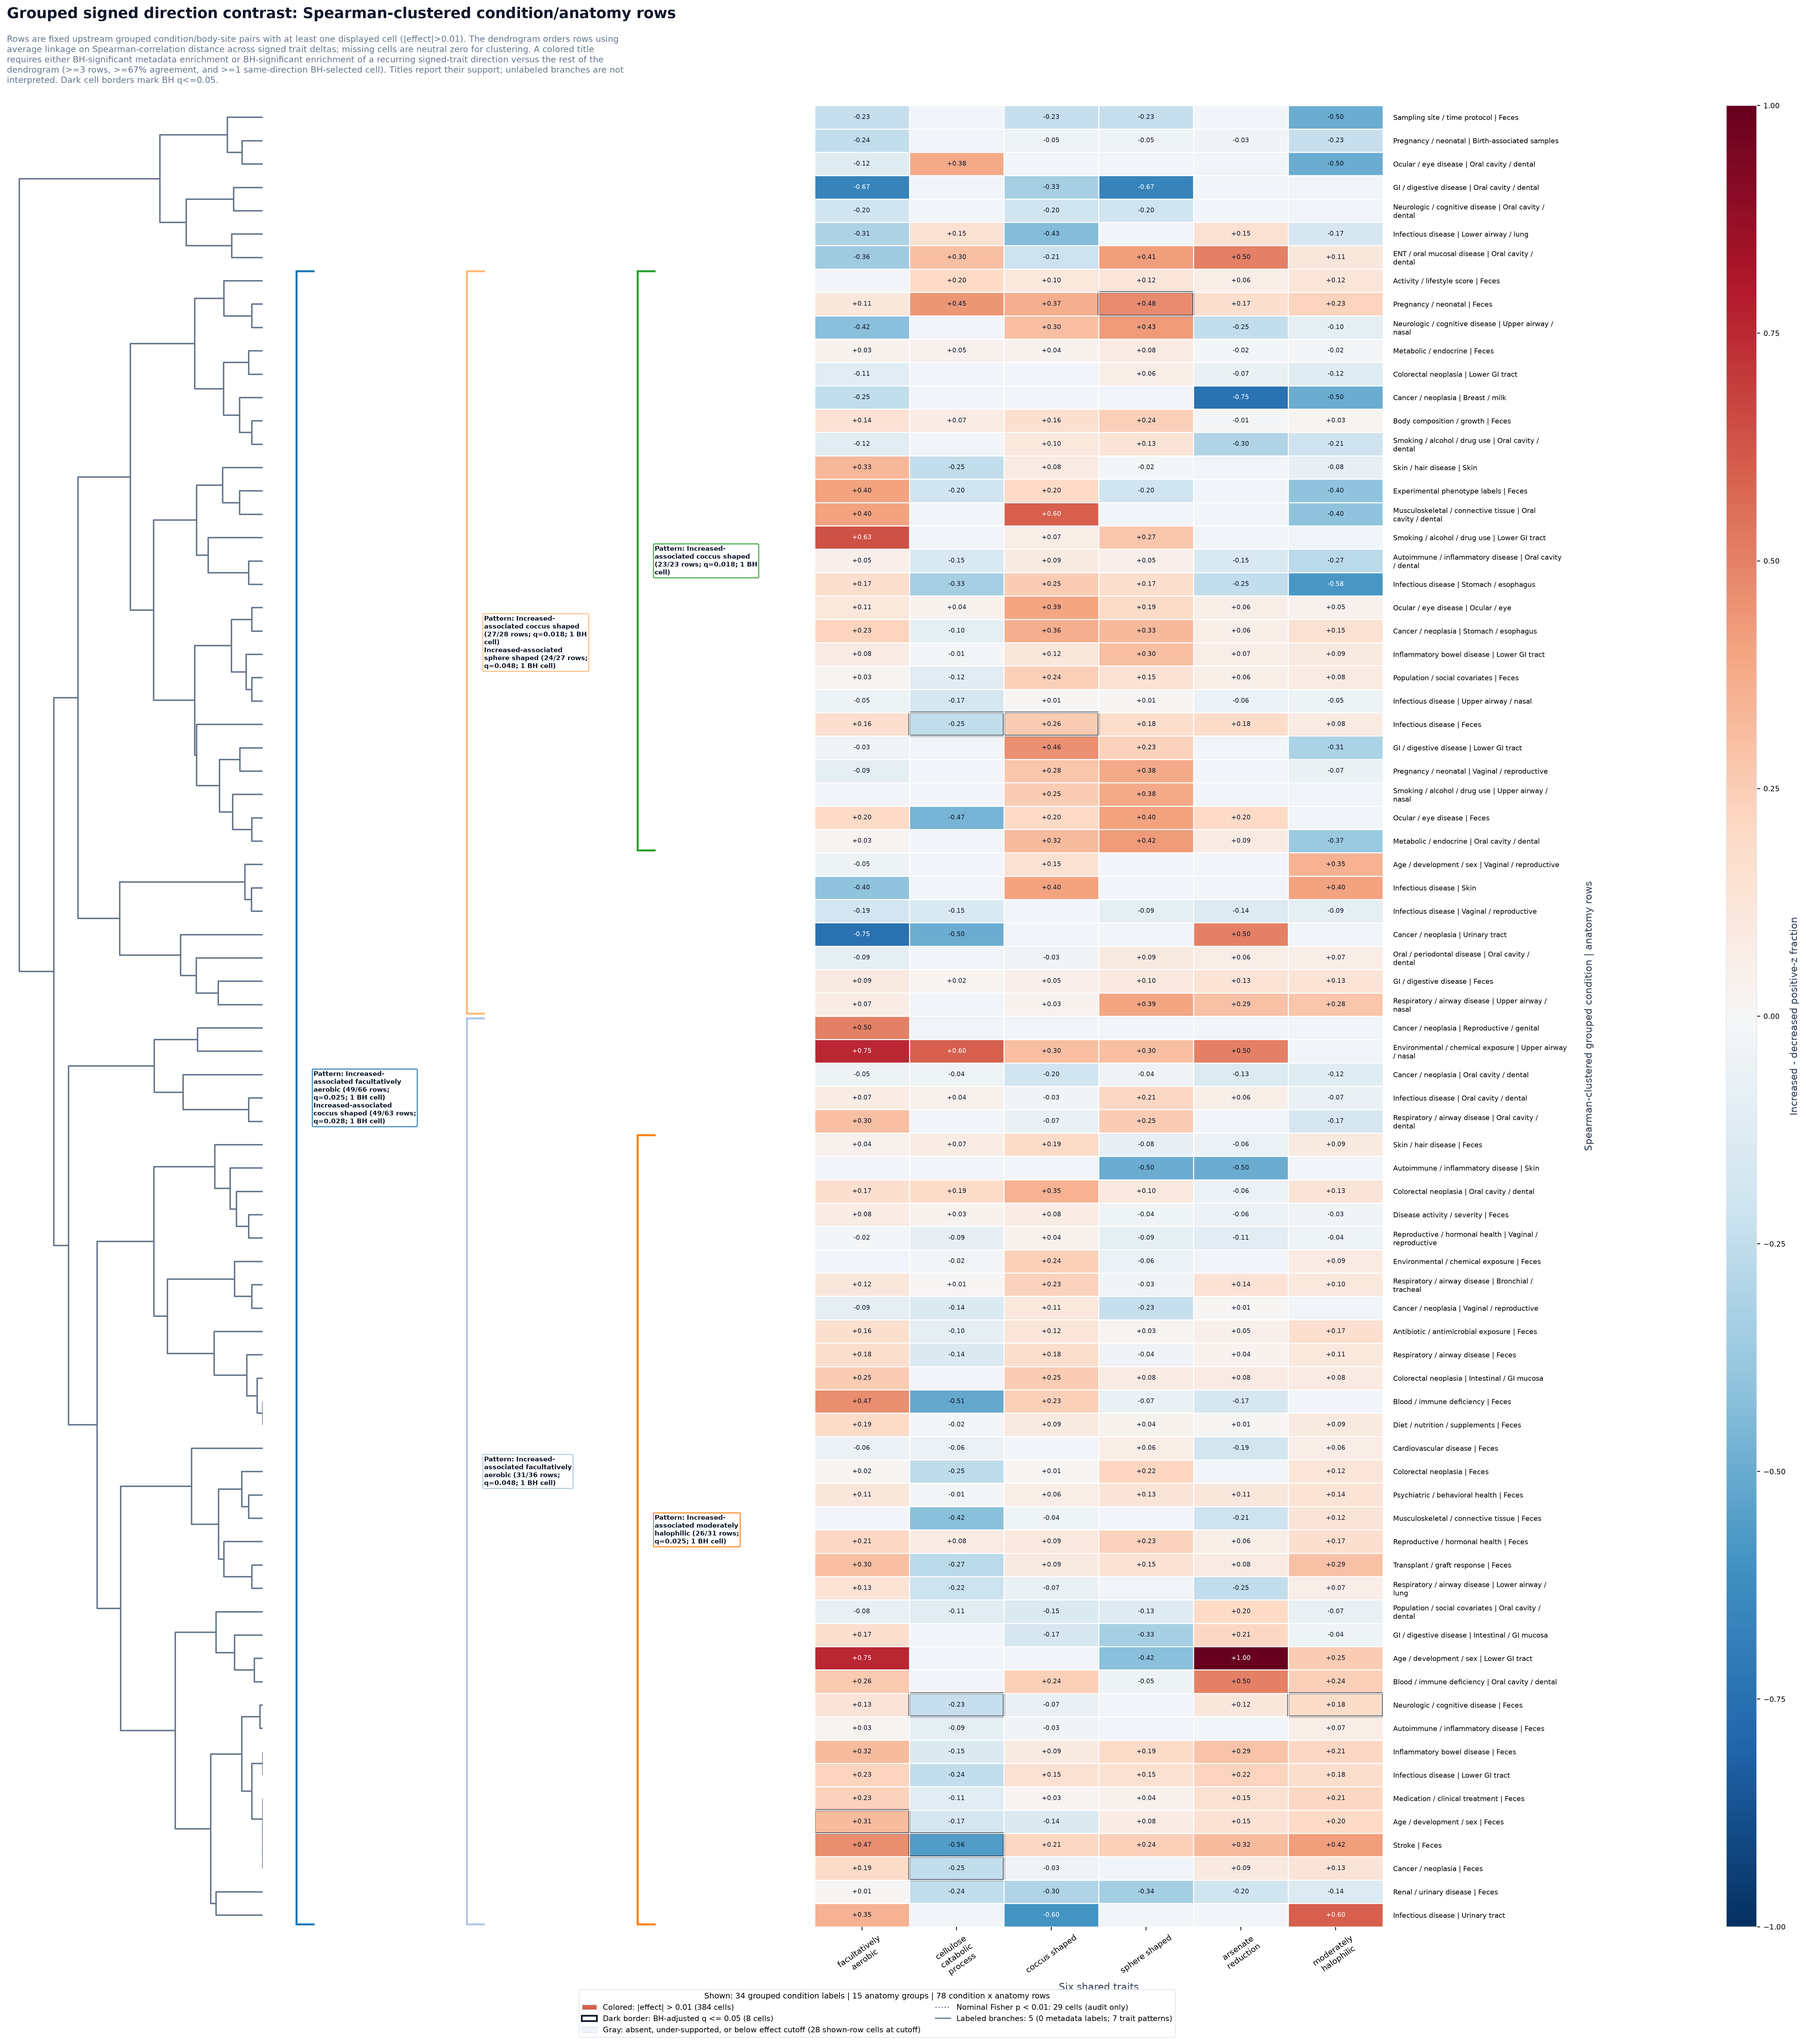
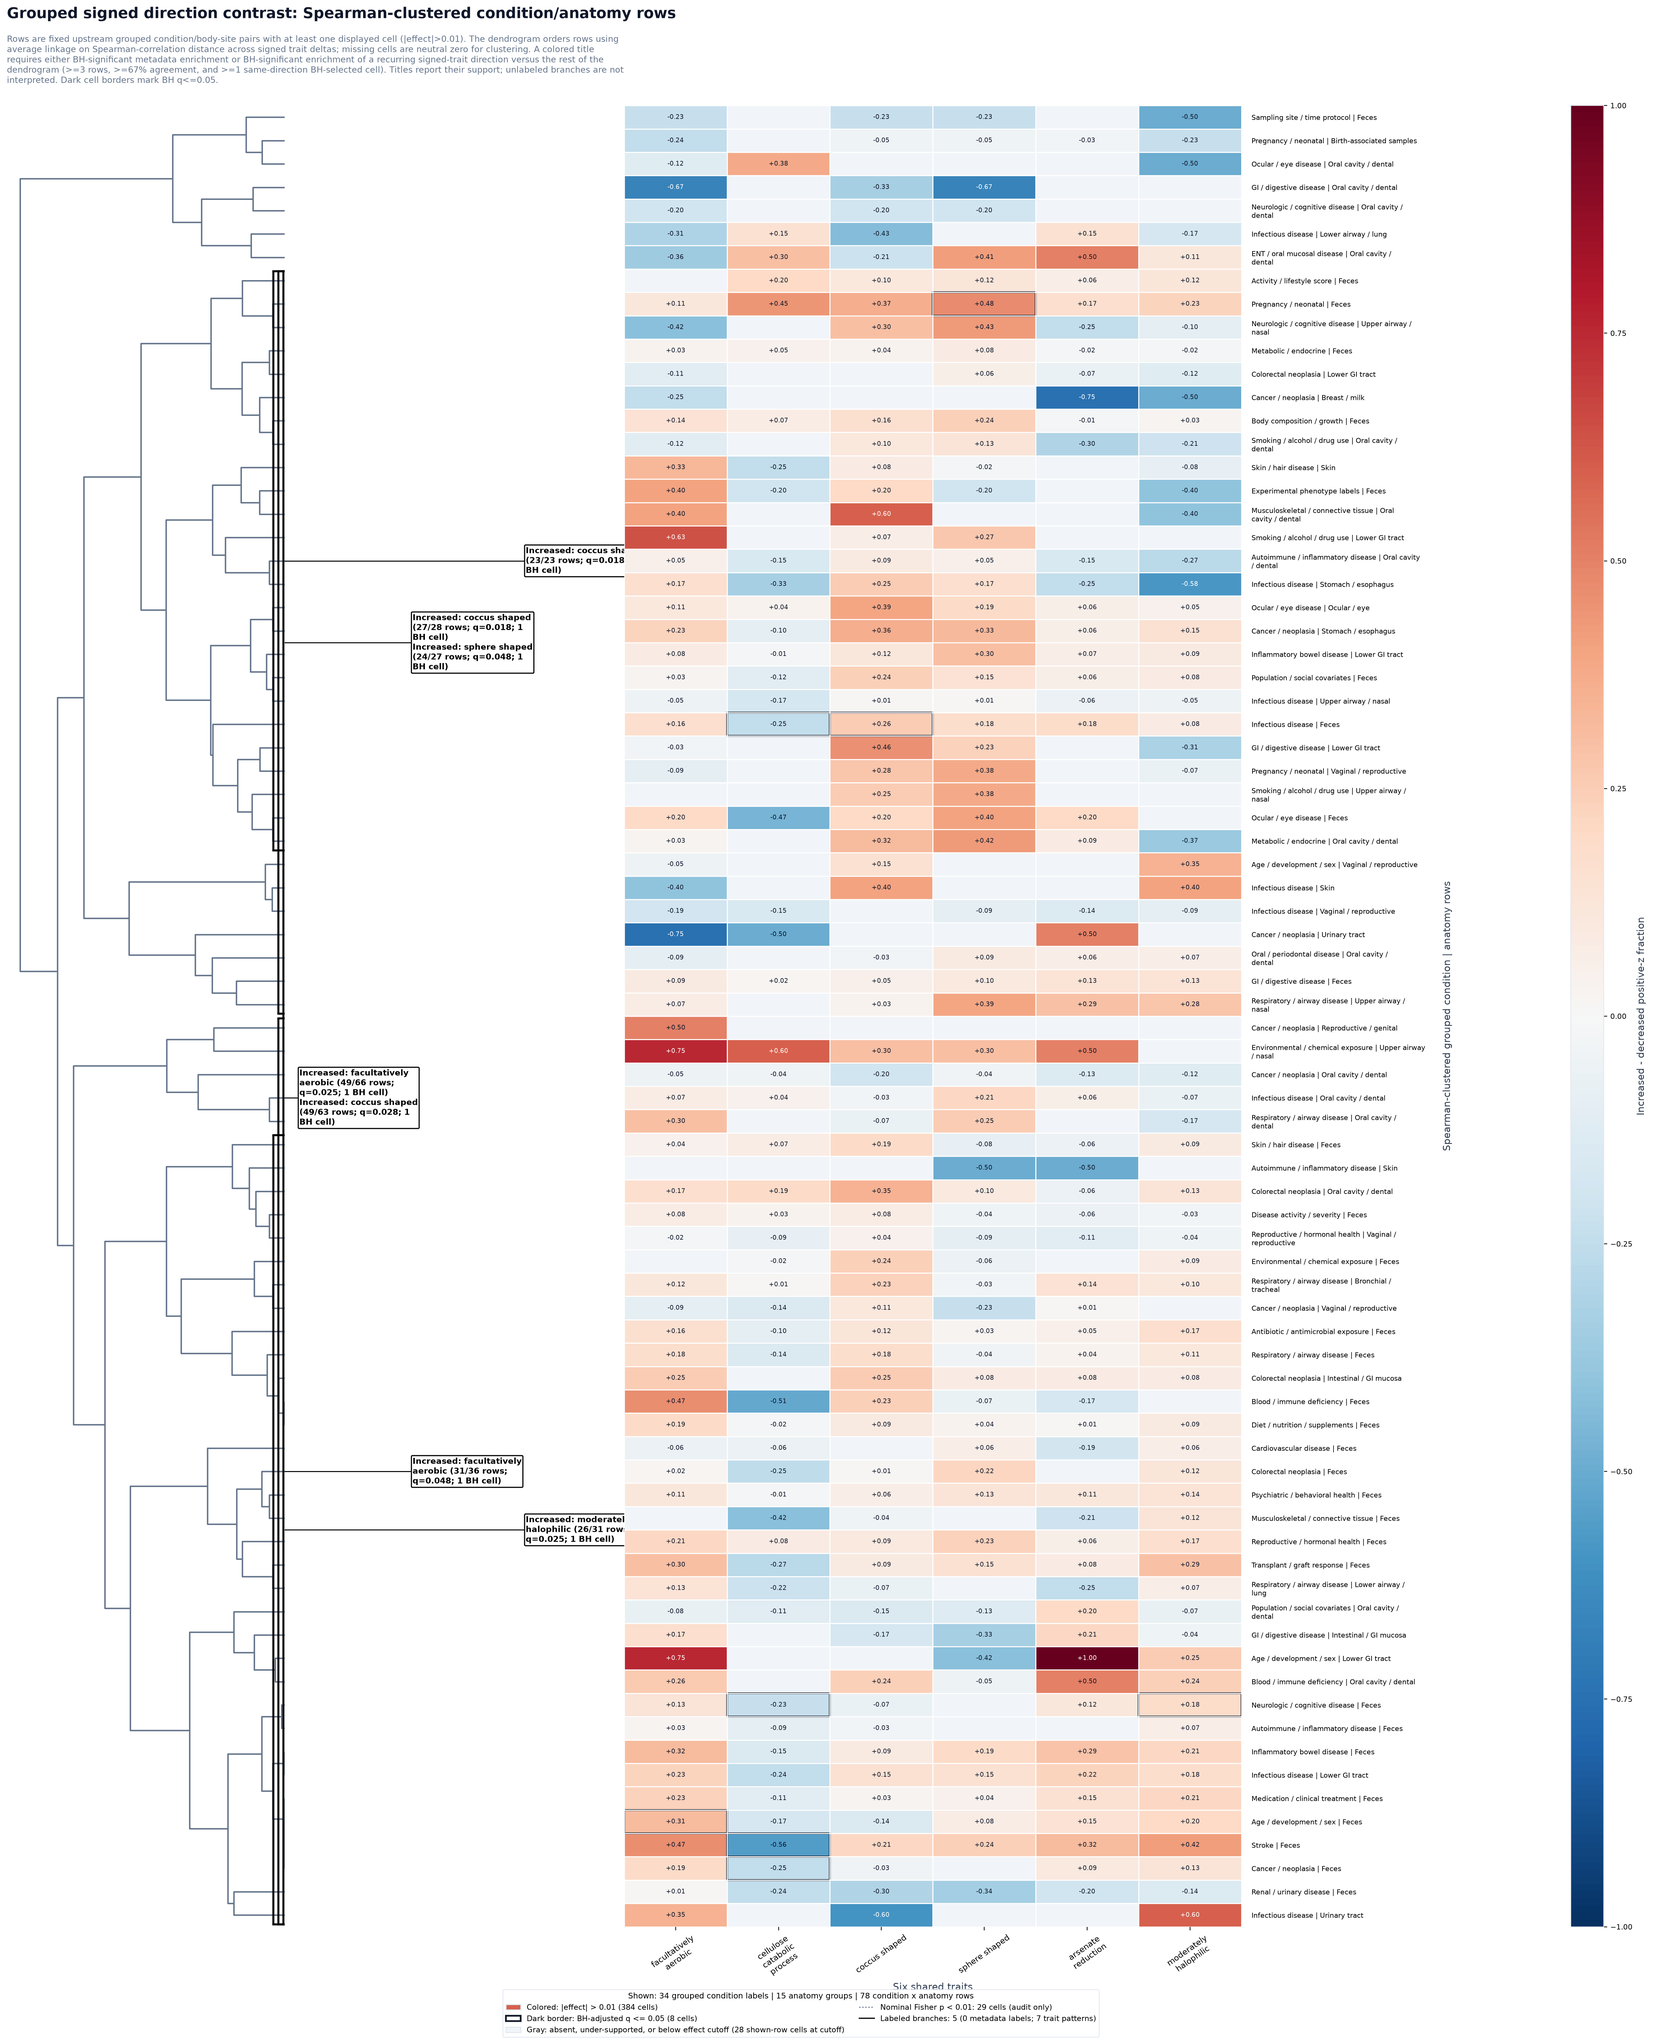
Refine dendrogram label layout

diff --git a/scripts/create_six_shared_trait_cytoscape_heatmaps.py b/scripts/create_six_shared_trait_cytoscape_heatmaps.py
@@ -427,7 +427,7 @@ def add_contrast_legend(
             Line2D(
                 [0],
                 [0],
-                color=SLATE_500,
+                color="black",
                 linewidth=1.2,
                 label=(
                     f"Labeled branches: {significant_branch_count} "
@@ -1448,12 +1448,6 @@ def plot_matrix_heatmap(
     plt.close(fig)
 
 
-def cluster_color(cluster_id: int) -> tuple[float, float, float, float]:
-    """Return a stable color for a row cluster."""
-    palette = plt.get_cmap("tab20")
-    return palette((cluster_id - 1) % 20)
-
-
 def plot_grouped_clustered_contrast_heatmap(
     matrix: pd.DataFrame,
     annotations: pd.DataFrame,
@@ -1480,24 +1474,24 @@ def plot_grouped_clustered_contrast_heatmap(
     )
     if preview:
         fig_height = 8.5
-        fig_width = 14.0 + 1.6 * label_track_count
+        fig_width = 14.0 + 0.9 * label_track_count
         left = 0.08
         right = 0.92
         top = 0.86
         bottom = 0.23
         label_width = 0.01
-        branch_label_width = 1.6 * label_track_count
+        branch_label_width = 1.05 * label_track_count
         show_row_labels = False
         show_cell_text = False
     else:
         fig_height = max(9.5, 3.2 + 0.34 * row_count)
-        fig_width = 22.0 + 1.8 * label_track_count
+        fig_width = 22.0 + 1.0 * label_track_count
         left = 0.04
         right = 0.965
         top = 1 - 1.55 / fig_height
         bottom = 1.8 / fig_height
         label_width = 3.2
-        branch_label_width = 1.8 * label_track_count
+        branch_label_width = 1.1 * label_track_count
         show_row_labels = True
         show_cell_text = True
 
@@ -1510,7 +1504,7 @@ def plot_grouped_clustered_contrast_heatmap(
         right=right,
         top=top,
         bottom=bottom,
-        wspace=0.06,
+        wspace=0.0,
     )
     dendro_ax = fig.add_subplot(grid[0, 0])
     branch_label_ax = fig.add_subplot(grid[0, 1])
@@ -1541,58 +1535,73 @@ def plot_grouped_clustered_contrast_heatmap(
         end = (int(branch.leaf_end) + 1) * 10
         midpoint = (start + end) / 2
         track = int(branch.nesting_depth)
-        color = cluster_color(int(branch.spearman_cluster))
-        bracket_x = track + 0.08
-        branch_label_ax.plot(
+        bracket_x = 0.995 - 0.018 * track
+        dendro_ax.plot(
             [bracket_x, bracket_x],
             [start + 1, end - 1],
-            color=color,
+            color="black",
             linewidth=2.1 if not preview else 1.6,
             solid_capstyle="round",
+            transform=dendro_ax.get_yaxis_transform(),
+            clip_on=False,
             zorder=2,
         )
-        branch_label_ax.plot(
-            [bracket_x, bracket_x + 0.1],
+        dendro_ax.plot(
+            [bracket_x, 1.005],
             [start + 1, start + 1],
-            color=color,
+            color="black",
             linewidth=2.1 if not preview else 1.6,
+            transform=dendro_ax.get_yaxis_transform(),
+            clip_on=False,
+            zorder=2,
+        )
+        dendro_ax.plot(
+            [bracket_x, 1.005],
+            [end - 1, end - 1],
+            color="black",
+            linewidth=2.1 if not preview else 1.6,
+            transform=dendro_ax.get_yaxis_transform(),
+            clip_on=False,
             zorder=2,
         )
         branch_label_ax.plot(
-            [bracket_x, bracket_x + 0.1],
-            [end - 1, end - 1],
-            color=color,
-            linewidth=2.1 if not preview else 1.6,
-            zorder=2,
+            [0, track + 0.11],
+            [midpoint, midpoint],
+            color="black",
+            linewidth=1.0,
+            zorder=1,
         )
         label_source = (
             str(branch.cluster_label)
+            .replace("Pattern: ", "")
+            .replace("Increased-associated ", "Increased: ")
+            .replace("Decreased-associated ", "Decreased: ")
             .replace(
-                "); Increased-associated",
-                ")\nIncreased-associated",
+                "); Increased:",
+                ")\nIncreased:",
             )
             .replace(
-                "); Decreased-associated",
-                ")\nDecreased-associated",
+                "); Decreased:",
+                ")\nDecreased:",
             )
         )
         label_text = "\n".join(
-            wrap_label(part, width=26 if not preview else 23) for part in label_source.splitlines()
+            wrap_label(part, width=25 if not preview else 20) for part in label_source.splitlines()
         )
         branch_label_ax.text(
-            track + 0.18,
+            track + 0.13,
             midpoint,
             label_text,
             ha="left",
             va="center",
-            fontsize=6.8 if not preview else 6.1,
-            color=SLATE_900,
+            fontsize=8.4 if not preview else 7.1,
+            color="black",
             fontweight="bold",
             bbox={
-                "boxstyle": "round,pad=0.18",
+                "boxstyle": "round,pad=0.14",
                 "facecolor": "white",
-                "edgecolor": color,
-                "linewidth": 1.0,
+                "edgecolor": "black",
+                "linewidth": 1.2,
                 "alpha": 0.96,
             },
             clip_on=False,
